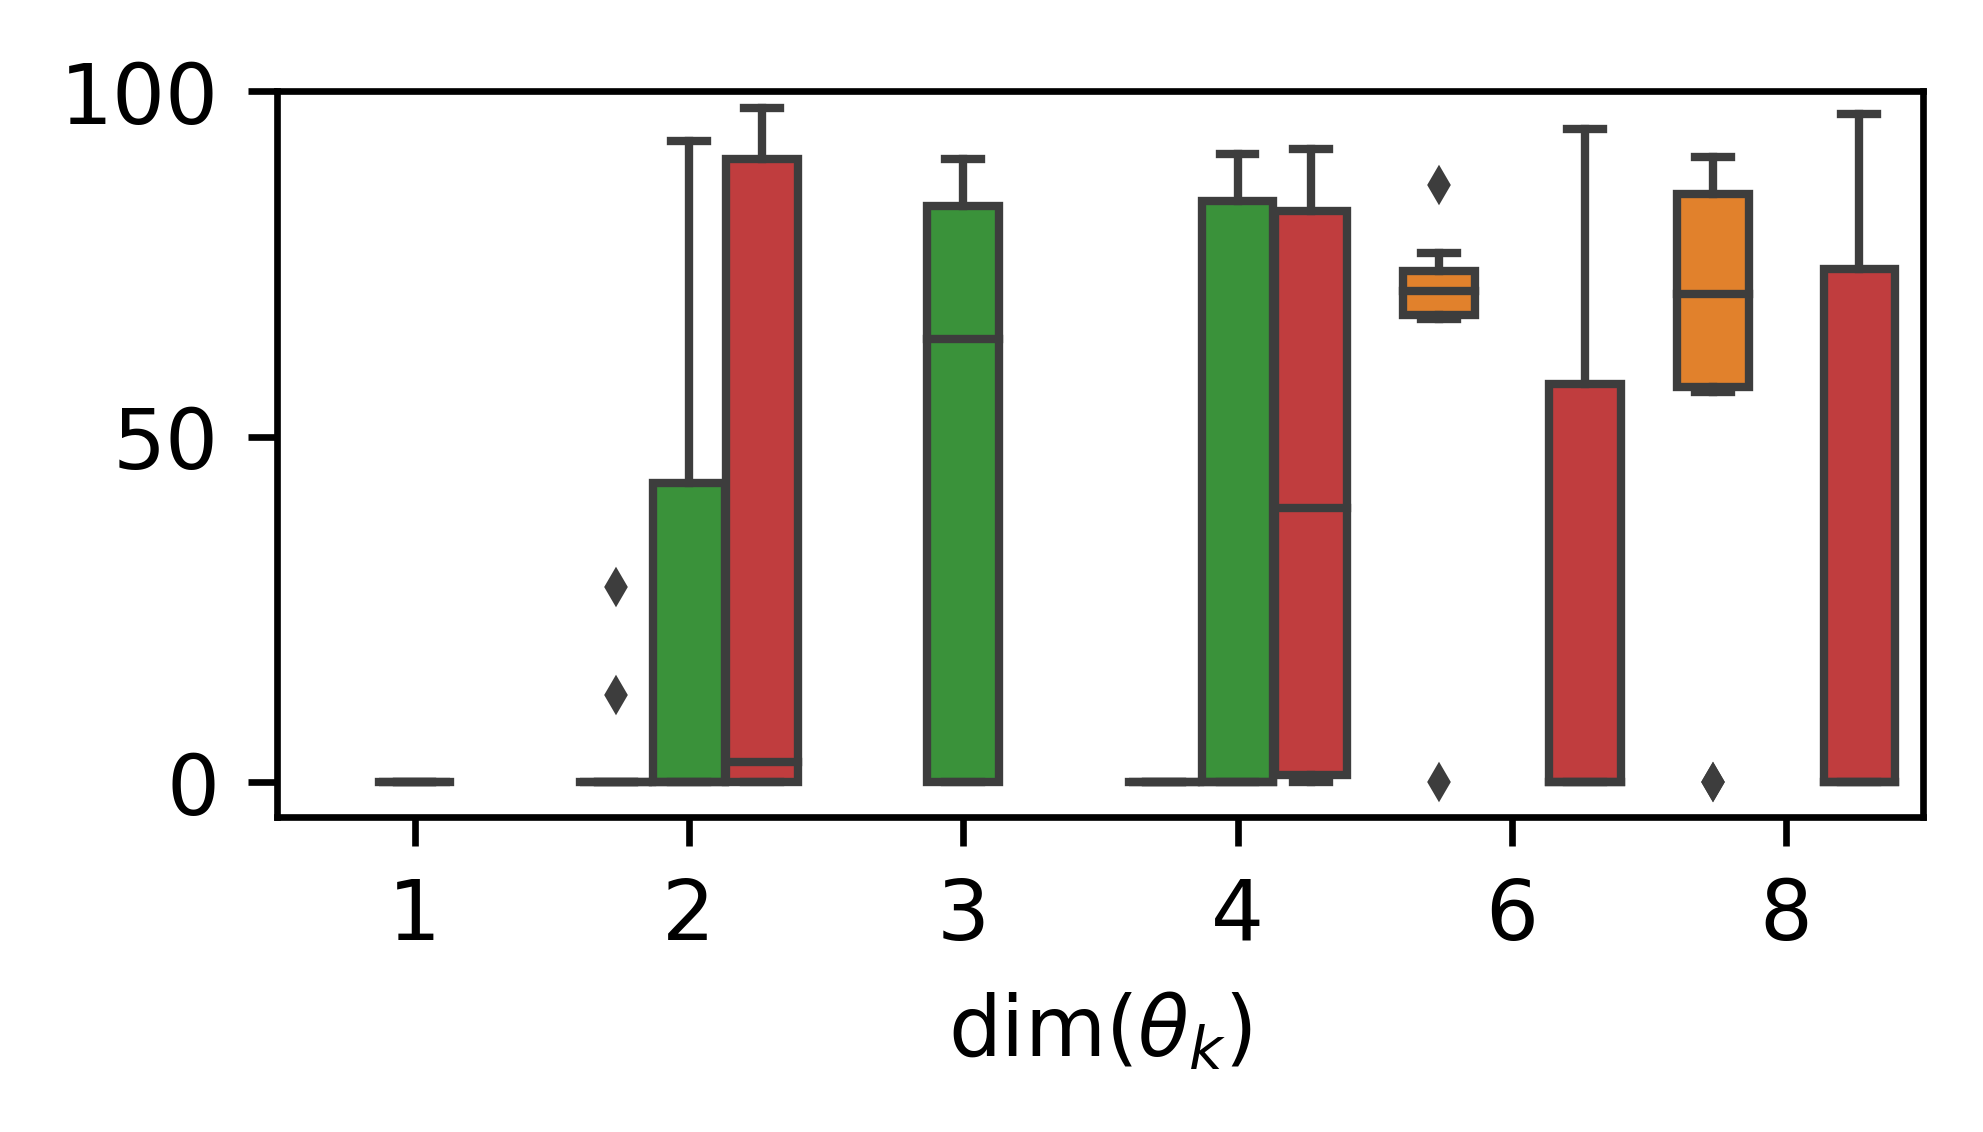
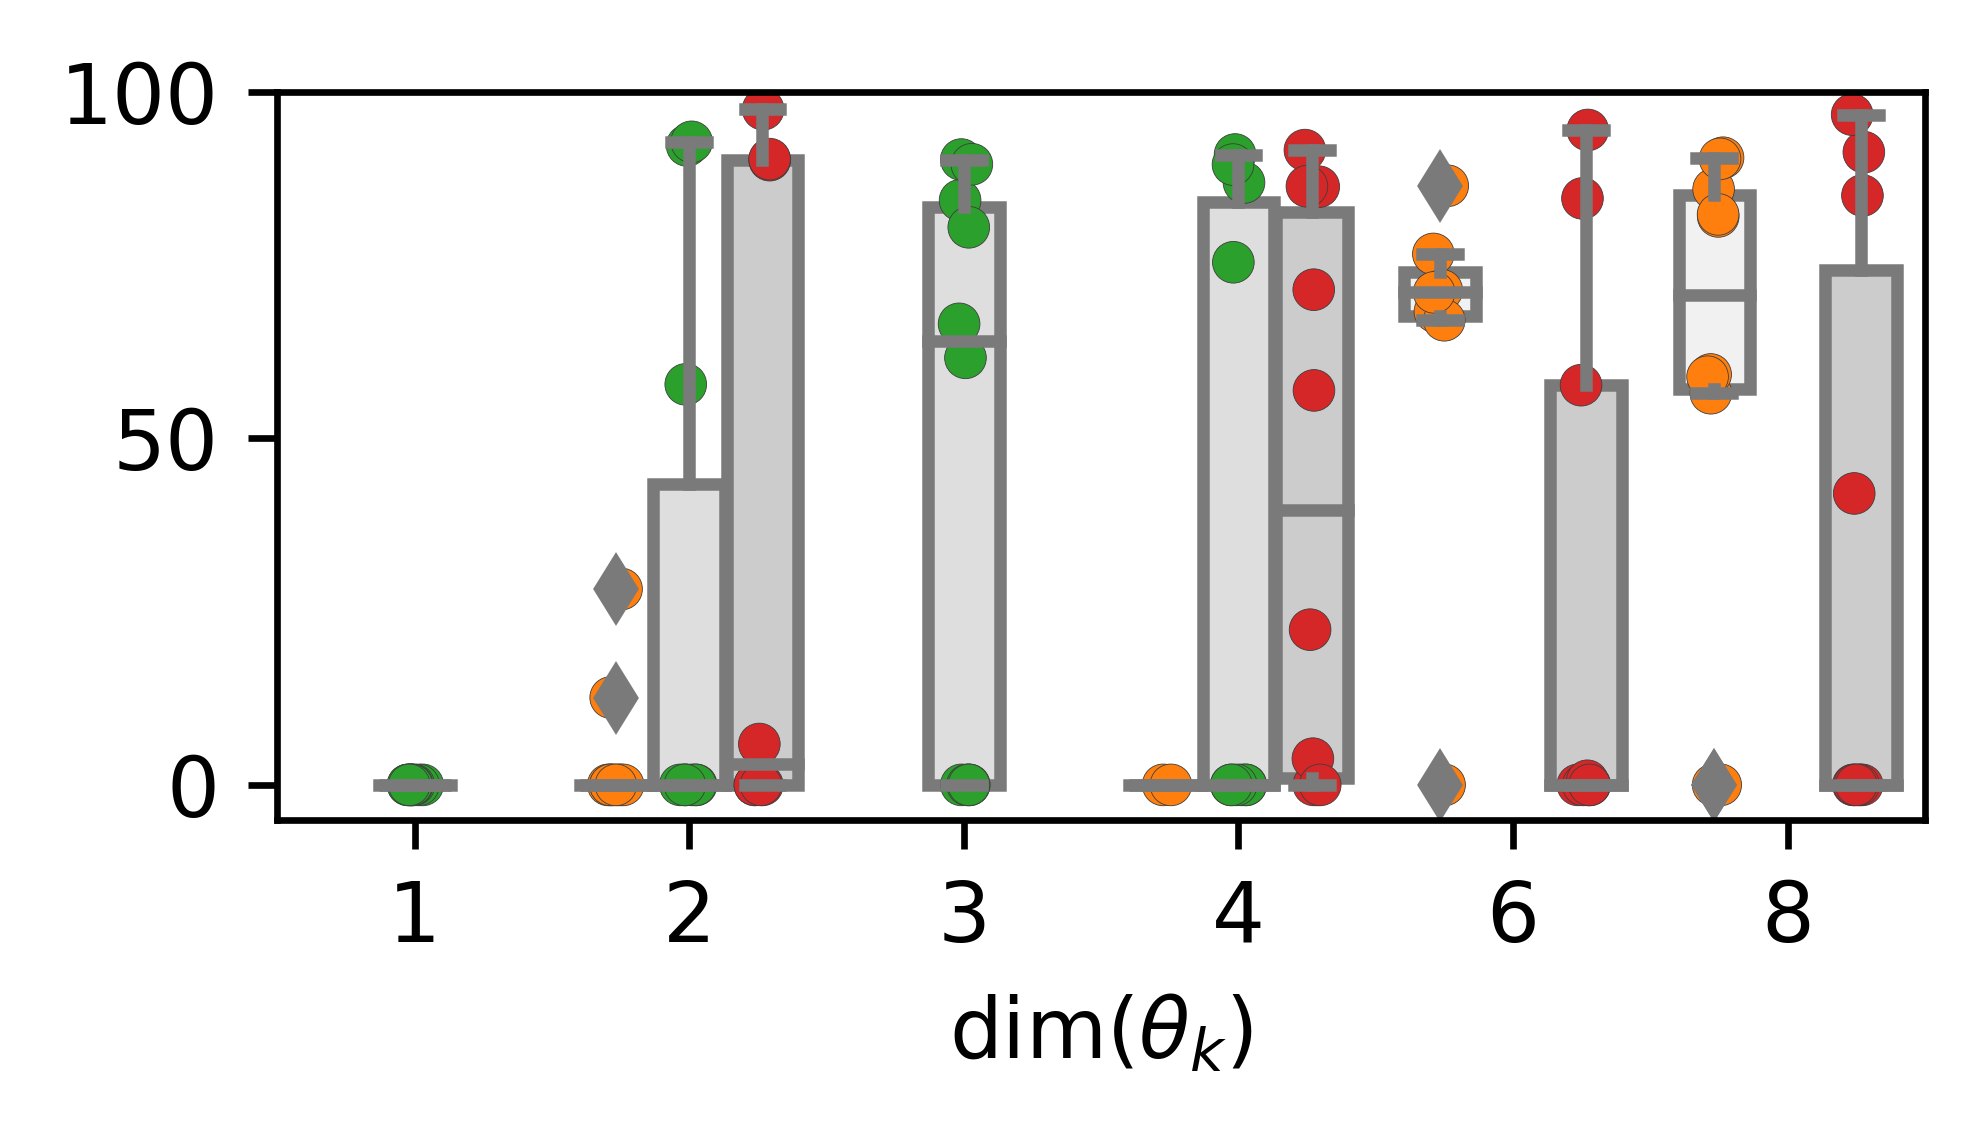
UpdatedPlots

diff --git a/sandbox/Boxplot_Silverbox_StateScheduling.py b/sandbox/Boxplot_Silverbox_StateScheduling.py
@@ -21,7 +21,15 @@ from scipy.io import loadmat
 import models.NN as NN
 from optim import param_optim
 
-
+def BestFitRate(y_target,y_est):
+    BFR = 1-sum((y_target-y_est)**2) / sum((y_target-np.mean(y_target))**2) 
+    
+    BFR = BFR*100
+    
+    if BFR<0:
+        BFR = np.array([0])
+        
+    return BFR
 
 ''' Data Preprocessing '''
 
@@ -74,16 +82,16 @@ for model in models:
         # Initialize model structure
         if model == 'RBF':
             LPV_model = NN.RBFLPV(dim_u=1,dim_x=2,dim_y=1,dim_theta=dim,
-                      initial_params=None,name='RBF_network')  
+                      initial_params=None,init_proc='xavier')  
         elif model == 'Rehmer':
             LPV_model = NN.RehmerLPV(dim_u=1,dim_x=2,dim_y=1,dim_thetaA=dim,dim_thetaB=0,
                           dim_thetaC=0, NN_1_dim=[dim],NN_2_dim=[],
-                          NN_3_dim=[],NN1_act=[1],NN2_act=[],NN3_act=[], 
-                          initial_params={},name='Rehmer_LPV')
+                          NN_3_dim=[],NN1_act=[2],NN2_act=[],NN3_act=[], 
+                          initial_params={})
         elif model == 'Lachhab':
             LPV_model = NN.LachhabLPV(dim_u=1,dim_x=2,dim_y=1,dim_thetaA=dim,
                                       dim_thetaB=dim, dim_thetaC=0,
-                                      initial_params={},name='RBF_network') 
+                                      initial_params={},name='Lachhab_LPV') 
         
         # Assign parameters to model and evaluate model fit
         for init in range(0,10):
@@ -99,63 +107,69 @@ for model in models:
             
             BFR_on_val_data = BFR_on_val_data.append(new_row, ignore_index=True)
 
+BFR_on_val_data['BFR']=BFR_on_val_data['BFR'].astype('float64')
+
 # dim theta for lachhab and rehmer is actually dim theta *2 :
 # BFR_on_val_data.loc[np.arange(0,50,1),'theta'] = BFR_on_val_data.loc[np.arange(0,50,1),'theta']*2
 # BFR_on_val_data.loc[np.arange(100,150,1),'theta'] = BFR_on_val_data.loc[np.arange(100,150,1),'theta']*2
 
-fig, axs = plt.subplots(2,gridspec_kw={'height_ratios': [1, 1.5]})
-fig.set_size_inches((9/2.54,7/2.54))
 
 palette = sns.color_palette()[1::]
 
-sns.boxplot(x='theta', y='BFR', hue='model',data=BFR_on_val_data, 
-                  palette=palette, fliersize=2,ax=axs[0], linewidth=1)
+fig, axs = plt.subplots() #plt.subplots(2,gridspec_kw={'height_ratios': [1, 1.5]})
 
-sns.boxplot(x='theta', y='BFR', hue='model',data=BFR_on_val_data, 
-                  palette=palette,fliersize=2,ax=axs[1], linewidth=1)
+fig.set_size_inches((9/2.54,4/2.54))
 
-axs[0].legend_.remove()
-axs[1].legend_.remove()
+# sns.violinplot(x='theta', y='BFR', hue='model',data=BFR_on_val_data, 
+#                   palette=palette, fliersize=2,ax=axs, linewidth=1)
+sns.boxplot(x='theta', y='BFR', hue='model',data=BFR_on_val_data, ax=axs,
+               color=".8")
+sns.stripplot(x='theta', y='BFR', hue='model',data=BFR_on_val_data, 
+                  palette=palette, ax=axs, linewidth=0.1,
+                  dodge=True,zorder=1)
 
-axs[0].set_xticks([])
+# sns.boxplot(x='theta', y='BFR', hue='model',data=BFR_on_val_data, 
+#                   palette="Set1",fliersize=2,ax=axs[1], linewidth=1)
 
-axs[1].set_xlabel(r'$\dim(\theta_k)$')
-axs[0].set_xlabel(None)
+axs.legend_.remove()
 
-axs[0].set_ylabel(None)
-axs[1].set_ylabel(None)
+axs.set_xlabel(r'$\dim(\theta_k)$')
 
-# axs[1].set_xlim(-0.5,3.5)
-# axs[0].set_xlim(-0.5,3.5)
+axs.set_ylabel(None)
 
-axs[1].set_ylim(-5,105)
-axs[0].set_ylim(98,100)
+
+axs.set_ylim(-5,105)
+
 
 fig.savefig('Silverbox_StateSched_Boxplot.png', bbox_inches='tight',dpi=600)
 
-# plt.figure
 
-# ''' Plot measured Input-Output data'''
-# # plt.rc(usetex = True)
+# Old Plot 
 
-# # params = {'tex.usetex': True}
-# # plt.rcParams.update(params)
-
-# fig, axs = plt.subplots(2)
+# fig, axs = plt.subplots(2,gridspec_kw={'height_ratios': [1, 1.5]})
 # fig.set_size_inches((9/2.54,7/2.54))
-# axs[0].plot(test_u[0],label = '$u$',linewidth=1)
-# axs[0].set_xticklabels({})
-# axs[0].set_ylim((-0.05,0.05))
-# axs[0].set_xlim((200,500))
-# axs[0].set_ylabel('$u$')
-# # axs[0].legend(loc='upper right',shadow=False,fancybox=False,frameon=False)
 
-# axs[1].plot(test_y[0],label = '$y$',linewidth=2)
-# axs[1].plot(y_est,'--',label = '$\hat{y}$',linewidth=1)
-# axs[1].set_ylim((-0.35,0.35))
-# axs[1].set_xlim((200,500))
-# axs[1].set_ylabel('$y$')
-# axs[1].set_xlabel('$k$')
-# # axs[1].legend(loc='upper left',shadow=False,fancybox=False,frameon=False)
+# palette = sns.color_palette()[1::]
 
-# fig.savefig('Silverbox_test.png', bbox_inches='tight',dpi=600)
+# sns.boxplot(x='theta', y='BFR', hue='model',data=BFR_on_val_data, 
+#                   palette=palette, fliersize=2,ax=axs[0], linewidth=1)
+
+# sns.boxplot(x='theta', y='BFR', hue='model',data=BFR_on_val_data, 
+#                   palette=palette,fliersize=2,ax=axs[1], linewidth=1)
+
+
+# axs[0].legend_.remove()
+# axs[1].legend_.remove()
+
+# axs[0].set_xticks([])
+
+# axs[1].set_xlabel(r'$\dim(\theta_k)$')
+# axs[0].set_xlabel(None)
+
+# axs[0].set_ylabel(None)
+# axs[1].set_ylabel(None)
+
+# axs[1].set_ylim(-5,105)
+# axs[0].set_ylim(98,100)
+
+# fig.savefig('Silverbox_StateSched_Boxplot.png', bbox_inches='tight',dpi=600)

diff --git a/sandbox/Boxplot_Bioreactor_StateScheduling.py b/sandbox/Boxplot_Bioreactor_StateScheduling.py
@@ -141,6 +141,8 @@ for model in models:
 BFR_on_val_data.loc[np.arange(0,40,1),'theta'] = BFR_on_val_data.loc[np.arange(0,40,1),'theta']*2
 BFR_on_val_data.loc[np.arange(80,120,1),'theta'] = BFR_on_val_data.loc[np.arange(80,120,1),'theta']*2
 
+BFR_on_val_data['BFR']=BFR_on_val_data['BFR'].astype('float64')
+
 
 palette = sns.color_palette()[1::]
 
@@ -148,8 +150,13 @@ fig, axs = plt.subplots() #plt.subplots(2,gridspec_kw={'height_ratios': [1, 1.5]
 
 fig.set_size_inches((9/2.54,4/2.54))
 
-sns.boxplot(x='theta', y='BFR', hue='model',data=BFR_on_val_data, 
-                  palette=palette, fliersize=2,ax=axs, linewidth=1)
+# sns.violinplot(x='theta', y='BFR', hue='model',data=BFR_on_val_data, 
+#                   palette=palette, fliersize=2,ax=axs, linewidth=1)
+sns.boxplot(x='theta', y='BFR', hue='model',data=BFR_on_val_data, ax=axs,
+               color=".8")
+sns.stripplot(x='theta', y='BFR', hue='model',data=BFR_on_val_data, 
+                  palette=palette, ax=axs, linewidth=0.1,
+                  dodge=True,zorder=1)
 
 # sns.boxplot(x='theta', y='BFR', hue='model',data=BFR_on_val_data, 
 #                   palette="Set1",fliersize=2,ax=axs[1], linewidth=1)
@@ -158,38 +165,10 @@ axs.legend_.remove()
 
 axs.set_xlabel(r'$\dim(\theta_k)$')
 
-
 axs.set_ylabel(None)
 
 
 axs.set_ylim(-5,100)
-# axs.set_xlim(-0.5,3.5)
 
 fig.savefig('Bioreactor_StateSched_Boxplot.png', bbox_inches='tight',dpi=600)
 
-# plt.figure
-
-# ''' Plot measured Input-Output data'''
-# # plt.rc(usetex = True)
-
-# # params = {'tex.usetex': True}
-# # plt.rcParams.update(params)
-
-# fig, axs = plt.subplots(2)
-# fig.set_size_inches((9/2.54,7/2.54))
-# axs[0].plot(test_u[0],label = '$u$',linewidth=1)
-# axs[0].set_xticklabels({})
-# axs[0].set_ylim((-0.05,0.05))
-# axs[0].set_xlim((200,500))
-# axs[0].set_ylabel('$u$')
-# # axs[0].legend(loc='upper right',shadow=False,fancybox=False,frameon=False)
-
-# axs[1].plot(test_y[0],label = '$y$',linewidth=2)
-# axs[1].plot(y_est,'--',label = '$\hat{y}$',linewidth=1)
-# axs[1].set_ylim((-0.35,0.35))
-# axs[1].set_xlim((200,500))
-# axs[1].set_ylabel('$y$')
-# axs[1].set_xlabel('$k$')
-# # axs[1].legend(loc='upper left',shadow=False,fancybox=False,frameon=False)
-
-# fig.savefig('Silverbox_test.png', bbox_inches='tight',dpi=600)
